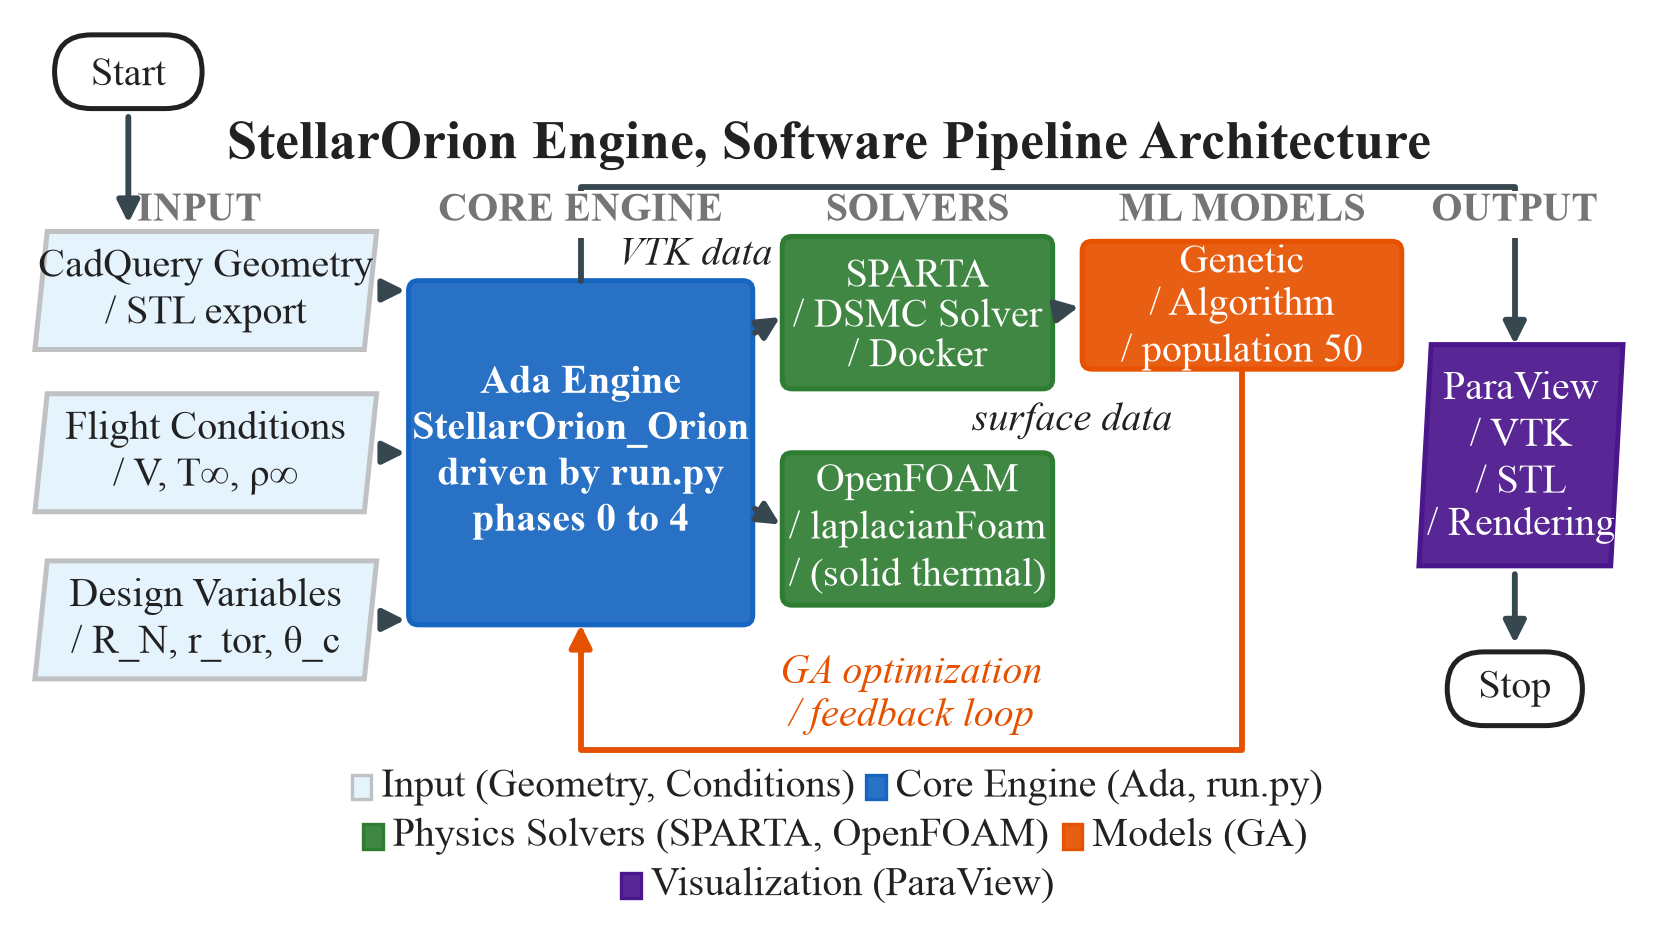
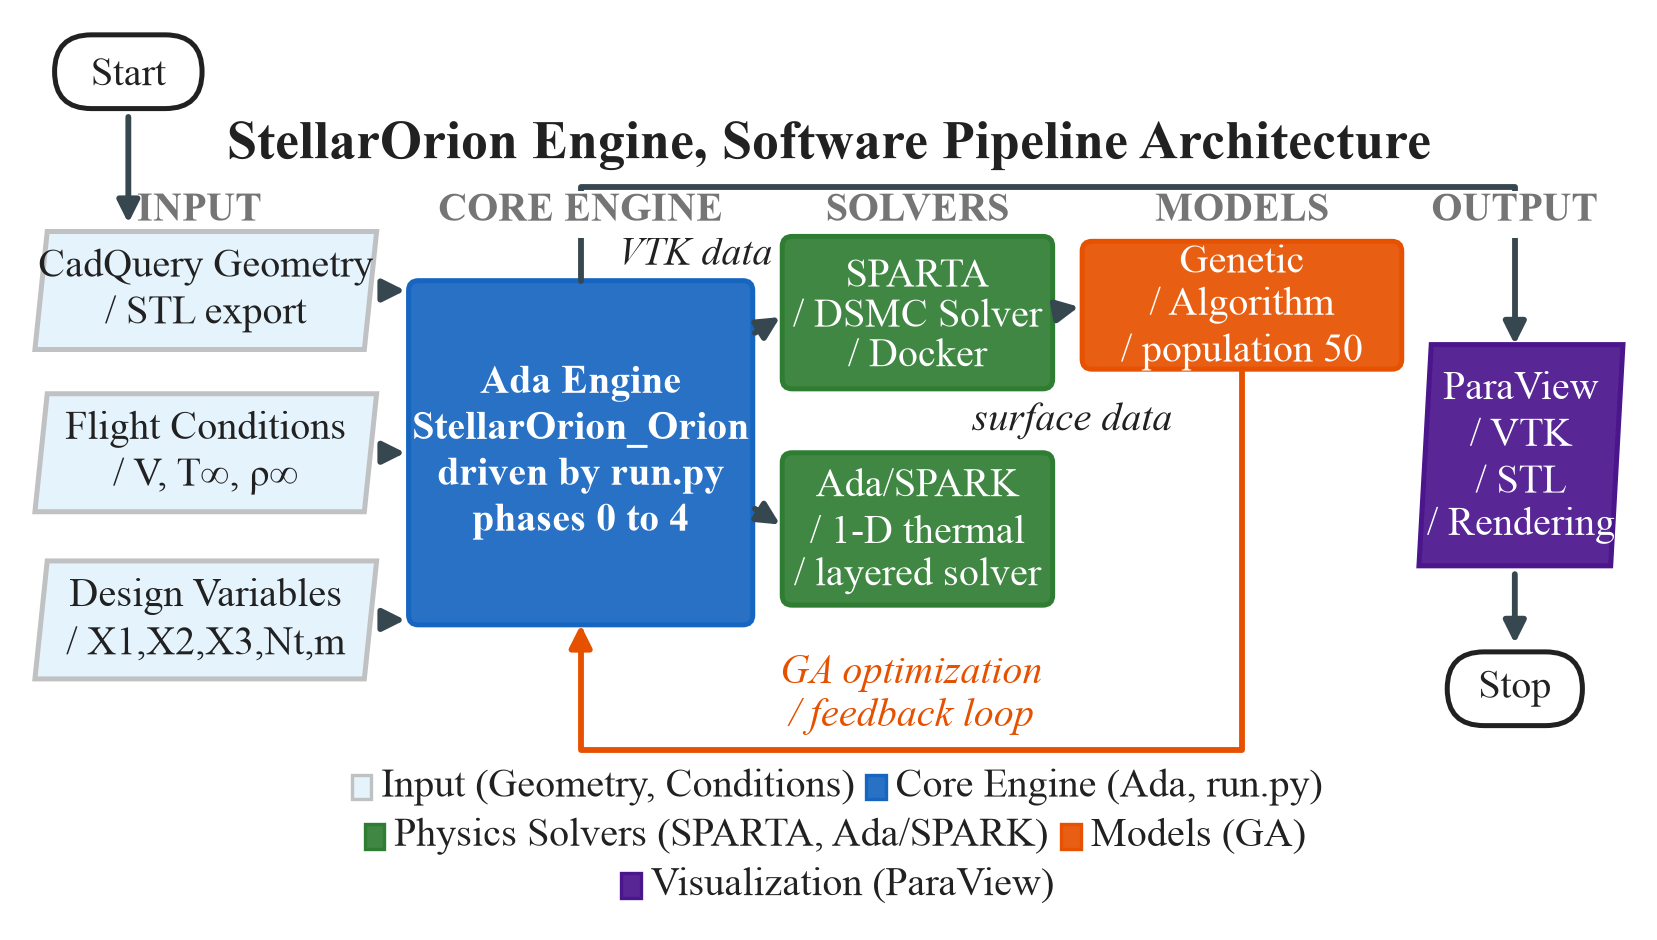
docs(thesis): name the real thermal solver and remove the implied SST model
Software pipeline (Fig. 3.3): the solvers column now shows SPARTA DSMC (Docker) and the Ada/SPARK per-element 1-D layered thermal solver instead of OpenFOAM/laplacianFoam. The column header is MODELS (the box is the GA, not an ML model), the design vector is X1,X2,X3,Nt,m, and the legend reads 'Physics Solvers (SPARTA, Ada/SPARK)'. The section text and caption state that conduction, the radiative hot-face balance and the lateral coupling are solved in Ada/SPARK (Sec. 3.6.4); OpenFOAM and Fluent appear only in the appendix tool inventory and are not part of the thermal chain.

Turbulence: Chapter 2 no longer implies that SST k-omega is implemented. The Menter row is marked as a continuum reference, the triangulation paragraph says the continuum literature uses SST while this work resolves the same cells with DSMC and implements no turbulence closure, and the uncited SST velocity-contour figure (whose caption claimed a k-epsilon vs k-omega comparison) is removed. Two further stale claims are corrected: the study uses only DSMC/SPARTA (no continuum CFD in the pipeline), and the ML section describes surrogate modelling only as a contrast (no surrogate or trained model is used).

Build: 180 pages, 0 errors, 0 undefined refs/citations, 78 small box defects, no overfull above 10 pt. Pages 99-100 and 69-70 rendered and inspected.

diff --git a/Lost+Found/ProgressReport/CurrentThesisFinalReport/chapter_02_literature_review.tex b/Lost+Found/ProgressReport/CurrentThesisFinalReport/chapter_02_literature_review.tex
@@ -32,12 +32,12 @@ To establish a baseline for the expected aerothermal outcomes, a review of key f
 
 \textbf{HEART Project} (Cassell et al., 2014) & Optimized Nose-IAD Junction Geometry. & Found that the juncture between the nose and the IAD creates a secondary heat flux peak. & Predicts the location of local hot spots. \\ \hline
 
-\textbf{Menter (1994)} & $k$-$\omega$ SST Turbulence Model. & Superior performance in predicting separation in adverse pressure gradients. & Supports model for valley recirculation. \\ \hline
+\textbf{Menter (1994)} & $k$-$\omega$ SST Turbulence Model. & Superior performance in predicting separation in adverse pressure gradients. & Continuum reference for recirculation; not used here (DSMC resolves it directly). \\ \hline
 \end{longtable}
 \subsection{Triangulation of Expected Outcomes}
 By synthesizing the findings of \textit{Lau et al. (2013)} and \textit{Lichodziejewski et al. (2012)}, it is hypothesized that the scalloped geometry in this study will generate localized heat flux peaks on the toroidal crests. 
 
-Furthermore, the implementation of the \textit{SST $k-\omega$} turbulence model, as validated by \textit{Menter (1994)}, is expected to resolve the stable recirculation cells within the toroidal valleys. Finally, the use of a \textit{Thermally Perfect Gas} model reflects the high-enthalpy conditions observed in the \textit{LOFTID} mission, ensuring that the predicted shock physics align with real-gas observations rather than simplified ideal-gas assumptions.
+The continuum literature resolves the stable recirculation cells within the toroidal valleys with the \textit{SST $k-\omega$} model of \textit{Menter (1994)}; this work does not implement that model, because the DSMC solver resolves the same cells directly from molecular collisions and therefore needs no turbulence closure. Finally, the use of a \textit{Thermally Perfect Gas} model reflects the high-enthalpy conditions observed in the \textit{LOFTID} mission, ensuring that the predicted shock physics align with real-gas observations rather than simplified ideal-gas assumptions.
 
 This synthesis establishes the theoretical foundation for the numerical methodology described in \textbf{Chapter 3}. Figure~\ref{fig:literature_review_map} provides a visual mapping of each study's coverage of the physical phenomena and methodology adopted in this work.
 
@@ -776,14 +776,7 @@ Resolving these fluctuations directly via Direct Numerical Simulation (DNS) requ
 \par
 The standard approach is to solve the Reynolds-Averaged Navier-Stokes (RANS) equations, which decompose the instantaneous flow variables into a time-averaged mean component and a fluctuating turbulent component using the Reynolds Decomposition \cite{versteeg2007cfd}. This introduces the Reynolds Stress Tensor ($-\rho \overline{u'_i u'_j}$), which must be modeled to close the system of equations. The two dominant closures are the $k-\epsilon$ model (robust for free-shear flows but inaccurate near walls) and the $k-\omega$ model (accurate near walls but sensitive to freestream conditions). Menter's Shear Stress Transport (SST) $k-\omega$ model \cite{menter1994SST} blends these formulations using a zonal blending function $F_1$ and a shear stress limiter, making it the industry standard for aerodynamic heating predictions. While the SST $k-\omega$ model is widely used for continuum CFD solvers such as ANSYS Fluent and OpenFOAM \cite{versteeg2007cfd}, it is important to note that this study employs the Direct Simulation Monte Carlo (DSMC) method, which resolves turbulence at the molecular level without requiring a turbulence model.
 
-\begin{figure}[H]
-    \centering
-    \BeginAccSupp{method=escape,ActualText={Velocity contours computed with the SST k-omega turbulence model for several freestream velocity values, showing boundary-layer development over the body surface.}}%
-\includegraphics[width=0.8\textwidth]{figures/elocity-contour-for-different-values-of-velocity-for-SST-K-o-model.jpg.png}%
-\EndAccSupp{}%
-    \caption{Comparison of $k-\epsilon$ vs. $k-\omega$ turbulence model predictions for velocity contours.}
-    \label{fig:k_epsilon_omega}
-\end{figure}
+No turbulence model is used anywhere in this work: the RANS closures above are reviewed as the continuum reference against which the kinetic solution is judged, not as components of the present pipeline.
 
 \section{Thermodynamic Gas Models}
 
@@ -1124,11 +1117,11 @@ Table~\ref{tab:cfd_vs_dsmc} provides a systematic comparison of the continuum (R
     \end{tabularx}
 \end{table}
 
-\noindent This study employs \textit{both} paradigms: continuum CFD (SST $k$--$\omega$) is used in the literature review and methodology chapters to establish theoretical foundations, while DSMC (SPARTA) is used for the actual high-fidelity simulation of the HIAD re-entry flow field, as the IRVE-3 flight conditions fall in the transitional regime ($Kn \approx 0.03$).
+\noindent The two paradigms are not both used here. The continuum formulation is reviewed to establish the theoretical foundation, but this study itself employs only the kinetic paradigm: DSMC (SPARTA) performs every simulation of the HIAD flow field, because the IRVE-3 flight conditions fall in the transitional regime ($Kn \approx 0.03$).
 
 \section{Machine Learning in Computational Fluid Dynamics}
 
-The integration of machine learning (ML) with computational fluid dynamics has emerged as a powerful paradigm for accelerating simulations, reducing computational cost, and discovering closure models. This section reviews the machine-learning foundations relevant to the surrogate modelling used in this study.
+The integration of machine learning (ML) with computational fluid dynamics has emerged as a powerful paradigm for accelerating simulations, reducing computational cost, and discovering closure models. This section reviews the machine-learning foundations that are \emph{contrasted} with the present optimizer; no surrogate, Gaussian process or trained model is used in the workflow reported in this thesis.
 
 \subsection{Neural Network Approximation Theory}
 

diff --git a/Lost+Found/ProgressReport/CurrentThesisFinalReport/figures/make_software_pipeline.py b/Lost+Found/ProgressReport/CurrentThesisFinalReport/figures/make_software_pipeline.py
@@ -196,7 +196,7 @@ LEGEND_Y2 = 0.25
 LEGEND_Y3 = 0.05
 
 TITLE_TEXT = "StellarOrion Engine, Software Pipeline Architecture"
-HEADERS = ("INPUT", "CORE ENGINE", "SOLVERS", "ML MODELS", "OUTPUT")
+HEADERS = ("INPUT", "CORE ENGINE", "SOLVERS", "MODELS", "OUTPUT")
 HEADER_CENTERS = [
     (INPUT_X0 + INPUT_X1) / 2,
     (ENGINE_X0 + ENGINE_X1) / 2,
@@ -208,7 +208,7 @@ HEADER_CENTERS = [
 INPUT_TEXTS = (
     "CadQuery Geometry\n/ STL export",
     "Flight Conditions\n/ V, T∞, ρ∞",
-    "Design Variables\n/ R_N, r_tor, θ_c",
+    "Design Variables\n/ X1,X2,X3,Nt,m",
 )
 # WHY no "/ " prefixes (audit 2026-10-08): "/ StellarOrion_Orion" measured
 # 1.40 in of glyph ink against a 1.40 in box, so at the fit squeeze (text
@@ -222,12 +222,19 @@ INPUT_TEXTS = (
 ENGINE_TEXT = "Ada Engine\nStellarOrion_Orion\ndriven by run.py\nphases 0 to 4"
 SOLVER_TEXTS = (
     "SPARTA\n/ DSMC Solver\n/ Docker",
-    "OpenFOAM\n/ laplacianFoam\n/ (solid thermal)",
+    # WHY (2026-10-21): the 1-D thermal chain is NOT OpenFOAM.  It is the
+    # Ada/SPARK physics package (stellarorion_physics): the per-element
+    # layered 1-D conduction solver with the radiative hot-face balance
+    # and the post-1-D lateral coupling.  OpenFOAM exists in the
+    # repository only as a Solver_Kind enum member and an integration
+    # check; it never runs, so naming it here would misdescribe the
+    # pipeline.
+    "Ada/SPARK\n/ 1-D thermal\n/ layered solver",
 )
 ML_TEXTS = (
-    # PINN removed 2026-10: the thesis no longer presents PINN; the model
-    # column shows only the Gauss-process surrogate actually used to
-    # produce the optimised body.
+    # PINN removed 2026-10 and the Gaussian-process surrogate removed
+    # 2026-10-21: the optimiser is a population GA over the analytic
+    # cost, so that is what the model column names.
     "Genetic\n/ Algorithm\n/ population 50",
 )
 OUTPUT_TEXT = "ParaView\n/ VTK\n/ STL\n/ Rendering"
@@ -242,7 +249,7 @@ LEGEND_ROW1 = (
     ("Core Engine (Ada, run.py)", ENGINE_FILL, ENGINE_EDGE),
 )
 LEGEND_ROW2 = (
-    ("Physics Solvers (SPARTA, OpenFOAM)", SOLVER_FILL, SOLVER_EDGE),
+    ("Physics Solvers (SPARTA, Ada/SPARK)", SOLVER_FILL, SOLVER_EDGE),
     ("Models (GA)", ML_FILL, ML_EDGE),
 )
 LEGEND_ROW3 = (
@@ -342,7 +349,8 @@ def draw_legend_row(ax: object, items: tuple, y: float,
     estimate. save_to_print_width shrinks the figure with set_size_inches
     while matplotlib text keeps its absolute point size, so a 0.55 em
     character estimate under-measured caps-heavy labels such as
-    "Physics Solvers (SPARTA, OpenFOAM)" and the next colour patch landed
+    "Physics Solvers (SPARTA DSMC, Ada/SPARK thermal)" and the next colour
+    patch landed
     on the previous label's tail (image audit of 2026-10-08).
     """
     fig = ax.figure
@@ -529,7 +537,8 @@ def build() -> object:
 
     draw_legend_row(ax, LEGEND_ROW1, LEGEND_Y1)
     # WHY gap 0.22: the measured advance left the orange patch touching the
-    # tail of "OpenFOAM)" in the rendered PNG (image audit 2026-10-21); the
+    # tail of the solver legend label in the rendered PNG (image audit
+    # 2026-10-21); the
     # default 0.10 in is not enough clearance for this row.
     draw_legend_row(ax, LEGEND_ROW2, LEGEND_Y2, gap=0.22)
     draw_legend_row(ax, LEGEND_ROW3, LEGEND_Y3)

diff --git a/Lost+Found/ProgressReport/CurrentThesisFinalReport/chapter_03_methodology.tex b/Lost+Found/ProgressReport/CurrentThesisFinalReport/chapter_03_methodology.tex
@@ -91,14 +91,14 @@ Figure~\ref{fig:governing_equations} summarizes the full derivation chain from k
 
 \subsection{Software Pipeline}
 \label{sec:software_pipeline}
-The StellarOrion engine orchestrates the multi-solver pipeline shown in Figure~\ref{fig:software_pipeline}. The pipeline begins with CadQuery geometry generation and freestream condition specification, then routes through the DSMC solver (SPARTA in Docker) and the genetic-algorithm optimiser, before producing ParaView-ready VTK and STL files for visualization.
+The StellarOrion engine orchestrates the multi-solver pipeline shown in Figure~\ref{fig:software_pipeline}. The pipeline begins with CadQuery geometry generation and freestream condition specification, routes through the DSMC solver (SPARTA in Docker) and through the Ada/SPARK per-element 1-D layered thermal solver that turns the resolved surface heat flux into a backface temperature, then through the genetic-algorithm optimiser, before producing ParaView-ready VTK and STL files for visualization. The continuum solvers named in the tool inventory of the appendix (OpenFOAM, Fluent) are not part of the thermal chain: the 1-D conduction, the radiative hot-face balance and the lateral coupling are all solved in Ada/SPARK, as set out in Sec.~\ref{sec:thermal_chain}.
 
 \begin{figure}[H]
     \centering
-    \BeginAccSupp{method=escape,ActualText={Architecture diagram of the software pipeline, showing the Ada and SPARK simulation engine, the DSMC solver stage, and the result post-processing stages exchanging data.}}%
+    \BeginAccSupp{method=escape,ActualText={Architecture diagram of the software pipeline in five columns: input, core engine, solvers, models and output. The input column holds CadQuery geometry export, flight conditions and the design variables. The core engine is the Ada Engine. The solvers column holds SPARTA as the DSMC solver in Docker and Ada/SPARK as the one-dimensional layered thermal solver. The models column holds the Genetic Algorithm with a population of fifty. The output column holds ParaView VTK and STL rendering. An orange feedback arrow labelled GA optimization returns from the genetic algorithm to the core engine.}}%
 \includegraphics[width=\textwidth]{figures/software_pipeline.png}%
 \EndAccSupp{}%
-    \caption{StellarOrion engine software pipeline: input geometry and flight conditions $\rightarrow$ SPARTA DSMC solver $\rightarrow$ Genetic Algorithm optimiser $\rightarrow$ ParaView visualization. The feedback loop from the GA to the core engine closes the optimization loop: the GA writes the next geometry back to the engine until the best cost stagnates.}
+    \caption{StellarOrion engine software pipeline: input geometry and flight conditions $\rightarrow$ SPARTA DSMC solver and Ada/SPARK 1-D layered thermal solver $\rightarrow$ Genetic Algorithm optimiser $\rightarrow$ ParaView visualization. The thermal chain is solved in Ada/SPARK, not in a continuum CFD package. The feedback loop from the GA to the core engine closes the optimization loop: the GA writes the next geometry back to the engine until the best cost stagnates.}
     \label{fig:software_pipeline}
 \end{figure}
 
